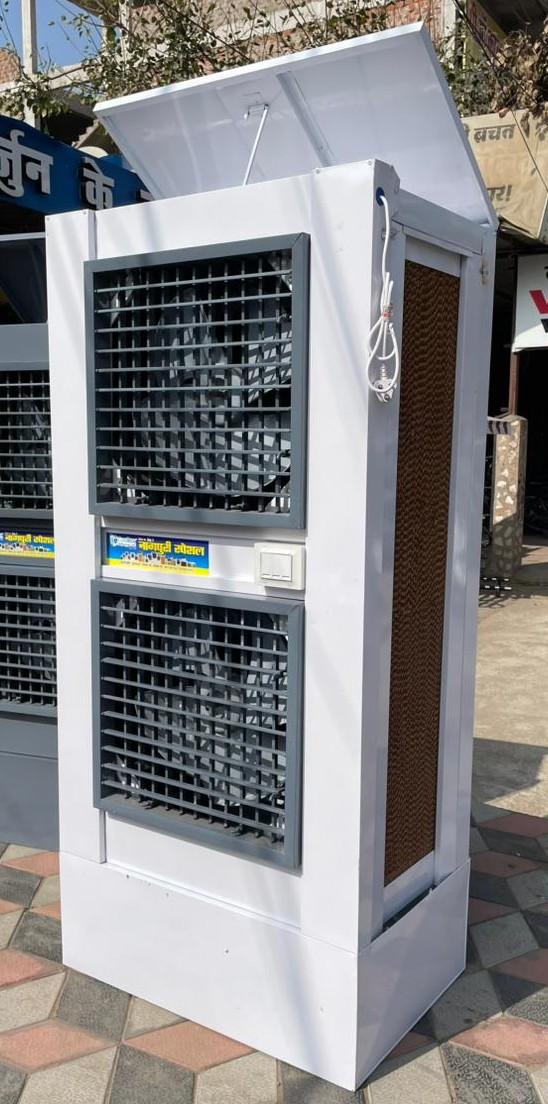
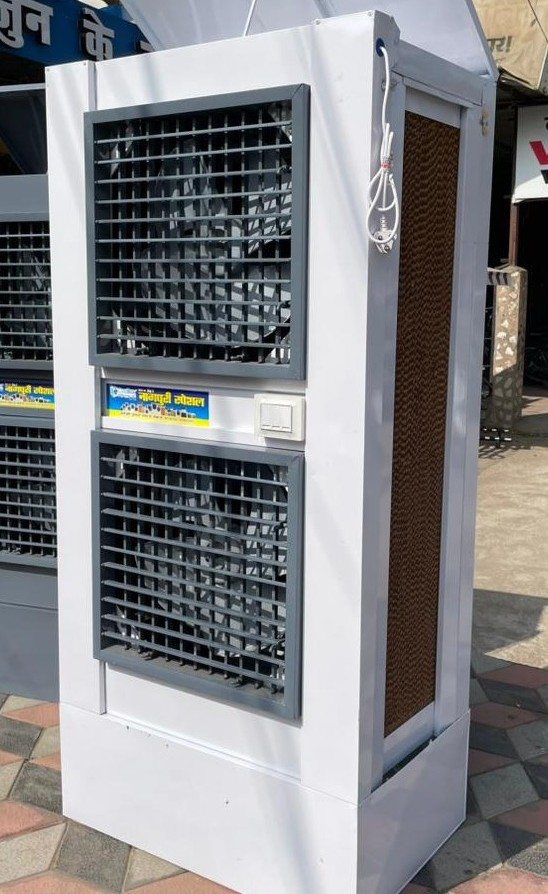
cc

diff --git a/index.html b/index.html
@@ -579,14 +579,22 @@
       border-radius: var(--radius);
       overflow: hidden;
       box-shadow: var(--shadow-lg);
-      max-height: 350px;
       display: flex;
       align-items: center;
+      justify-content: center;
+      background: var(--gray);
     }
     .about-video video {
       width: 100%;
-      height: 100%;
-      object-fit: cover;
+      height: auto;
+      object-fit: contain;
+      display: block;
+      border-radius: var(--radius);
+    }
+    .about-video img {
+      width: 100%;
+      height: auto;
+      object-fit: contain;
       display: block;
       border-radius: var(--radius);
     }